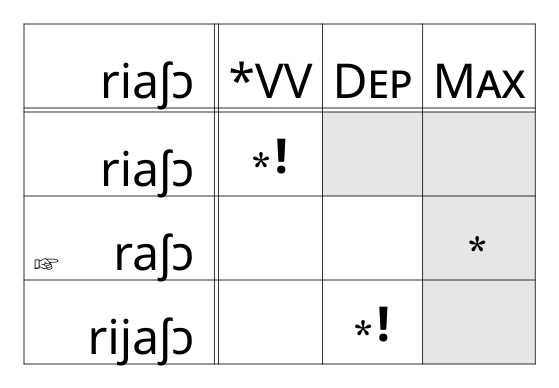
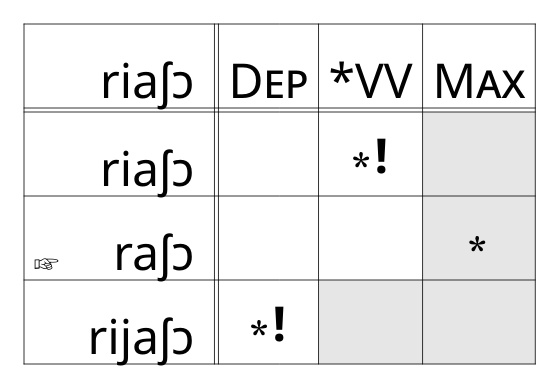
Built site for gh-pages

Changed region(s): [[0.3953, 0.0619, 0.7603, 0.9588], [0.4258, 0.7732, 0.517, 0.8969], [0.4562, 0.3402, 0.517, 0.4639]]

diff --git a/course-materials/lecture-notes/01_anatomy/index.html b/course-materials/lecture-notes/01_anatomy/index.html
@@ -530,7 +530,7 @@ div.csl-indent {
 <h2 class="anchored" data-anchor-id="tools-of-the-trade">Tools of the trade</h2>
 <section id="x-ray" class="level3">
 <h3 class="anchored" data-anchor-id="x-ray">X-Ray</h3>
-<div class="quarto-layout-panel" style="width: 100%;" data-layout-ncol="2">
+<div class="quarto-layout-panel" data-layout-ncol="2" style="width: 100%;">
 <div class="quarto-layout-row">
 <div class="quarto-layout-cell" style="flex-basis: 50.0%;justify-content: flex-start;">
 <p>anterior ⬅</p>
@@ -591,7 +591,7 @@ div.csl-indent {
 <h2 class="anchored" data-anchor-id="tools-of-the-trade-3">Tools of the trade</h2>
 <section id="ultrasound-tongue-imaging-1" class="level3">
 <h3 class="anchored" data-anchor-id="ultrasound-tongue-imaging-1">Ultrasound tongue imaging</h3>
-<div class="quarto-layout-panel" style="width: 100%;" data-layout-ncol="2">
+<div class="quarto-layout-panel" data-layout-ncol="2" style="width: 100%;">
 <div class="quarto-layout-row">
 <div class="quarto-layout-cell" style="flex-basis: 50.0%;justify-content: flex-start;">
 <p>posterior ⬅</p>
@@ -696,7 +696,7 @@ div.csl-indent {
 <section id="mri" class="level3">
 <h3 class="anchored" data-anchor-id="mri">MRI</h3>
 <div class="quarto-video"><video id="video_shortcode_videojs_video2" height="500" class="video-js vjs-default-skin vjs-big-play-centered " controls="" preload="auto" data-setup="{}" title=""><source src="videos/mri.mp4"></video></div>
-<div class="quarto-layout-panel" style="width: 100%;" data-layout-ncol="2">
+<div class="quarto-layout-panel" data-layout-ncol="2" style="width: 100%;">
 <div class="quarto-layout-row">
 <div class="quarto-layout-cell" style="flex-basis: 50.0%;justify-content: flex-start;">
 <p>posterior ⬅</p>

diff --git a/course-materials/index.html b/course-materials/index.html
@@ -1031,7 +1031,7 @@ Dr.&nbsp;Josef Fruehwald
 </a>
 </div>
 </div>
-<div class="quarto-post image-right" data-index="19" data-listing-file-modified-sort="1794337153440" data-listing-reading-time-sort="9" data-listing-word-count-sort="1774">
+<div class="quarto-post image-right" data-index="19" data-listing-file-modified-sort="1794341592462" data-listing-reading-time-sort="9" data-listing-word-count-sort="1774">
 <div class="thumbnail"><a href="../course-materials/lecture-notes/20_constraints/index.html" class="no-external">
 
 <p class="card-img-top"><img loading='lazy' src="lecture-notes/20_constraints/assets/typst-render/index/typst-block-1.svg" alt="#import "@preview/cetz:0.5.1"

diff --git a/course-materials/lecture-notes/index.html b/course-materials/lecture-notes/index.html
@@ -810,7 +810,7 @@ Dr.&nbsp;Josef Fruehwald
 </a>
 </div>
 </div>
-<div class="quarto-post image-right" data-index="12" data-listing-file-modified-sort="1794337153440" data-listing-reading-time-sort="9" data-listing-word-count-sort="1774">
+<div class="quarto-post image-right" data-index="12" data-listing-file-modified-sort="1794341592462" data-listing-reading-time-sort="9" data-listing-word-count-sort="1774">
 <div class="thumbnail"><a href="../../course-materials/lecture-notes/20_constraints/index.html" class="no-external">
 
 <p class="card-img-top"><img loading='lazy' src="20_constraints/assets/typst-render/index/typst-block-1.svg" alt="#import "@preview/cetz:0.5.1"

diff --git a/course-materials/lecture-notes/05_place-manner/05_transcription.html b/course-materials/lecture-notes/05_place-manner/05_transcription.html
@@ -230,7 +230,7 @@ $: A4
 </section>
 <section id="hz-how" class="slide level2 center">
 <h2>440Hz how?</h2>
-<div class="quarto-layout-panel" data-layout-ncol="2" style="font-size: 7em">
+<div class="quarto-layout-panel" style="font-size: 7em" data-layout-ncol="2">
 <div class="quarto-layout-row">
 <div class="quarto-layout-cell" style="flex-basis: 50.0%;justify-content: flex-start;">
 <p>🎷</p>
